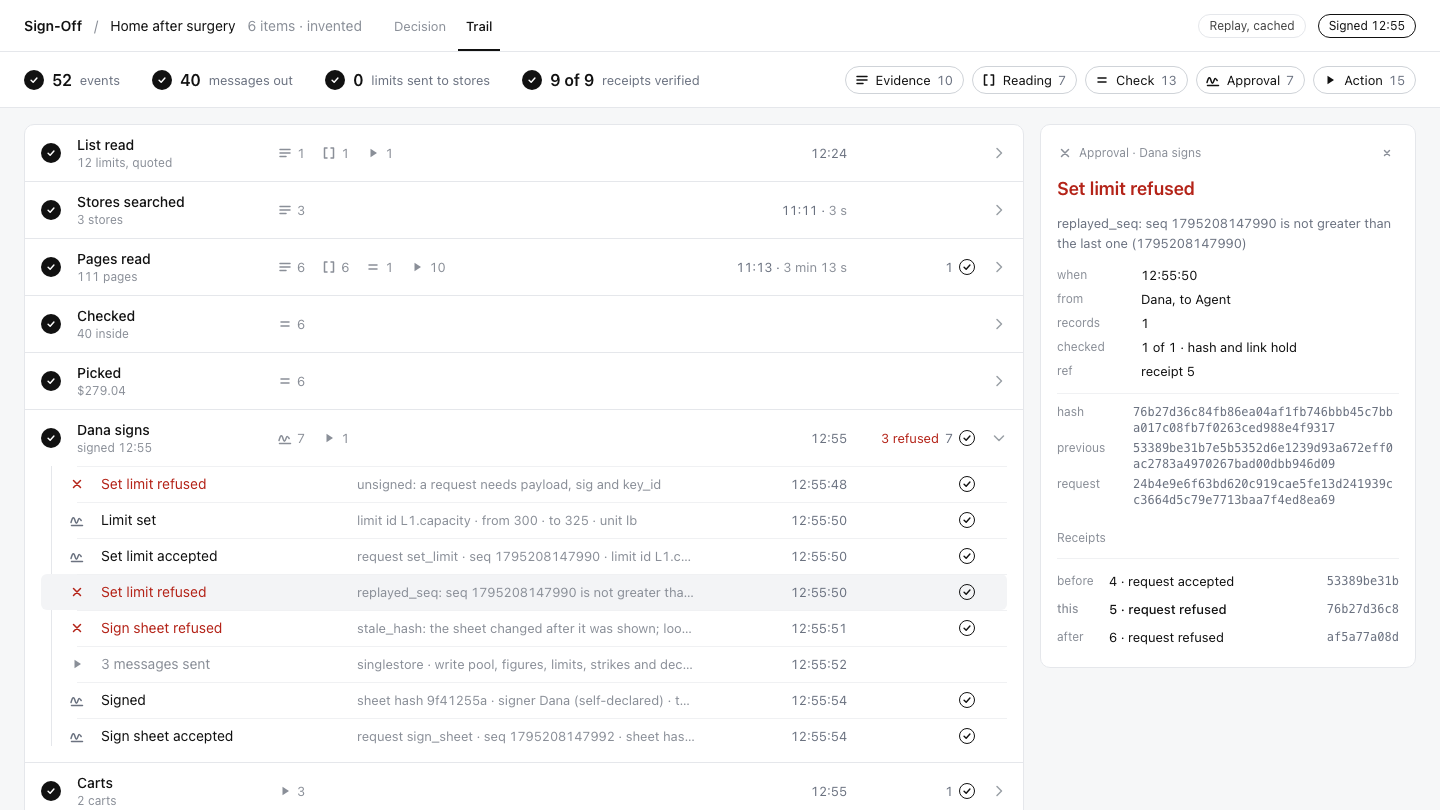
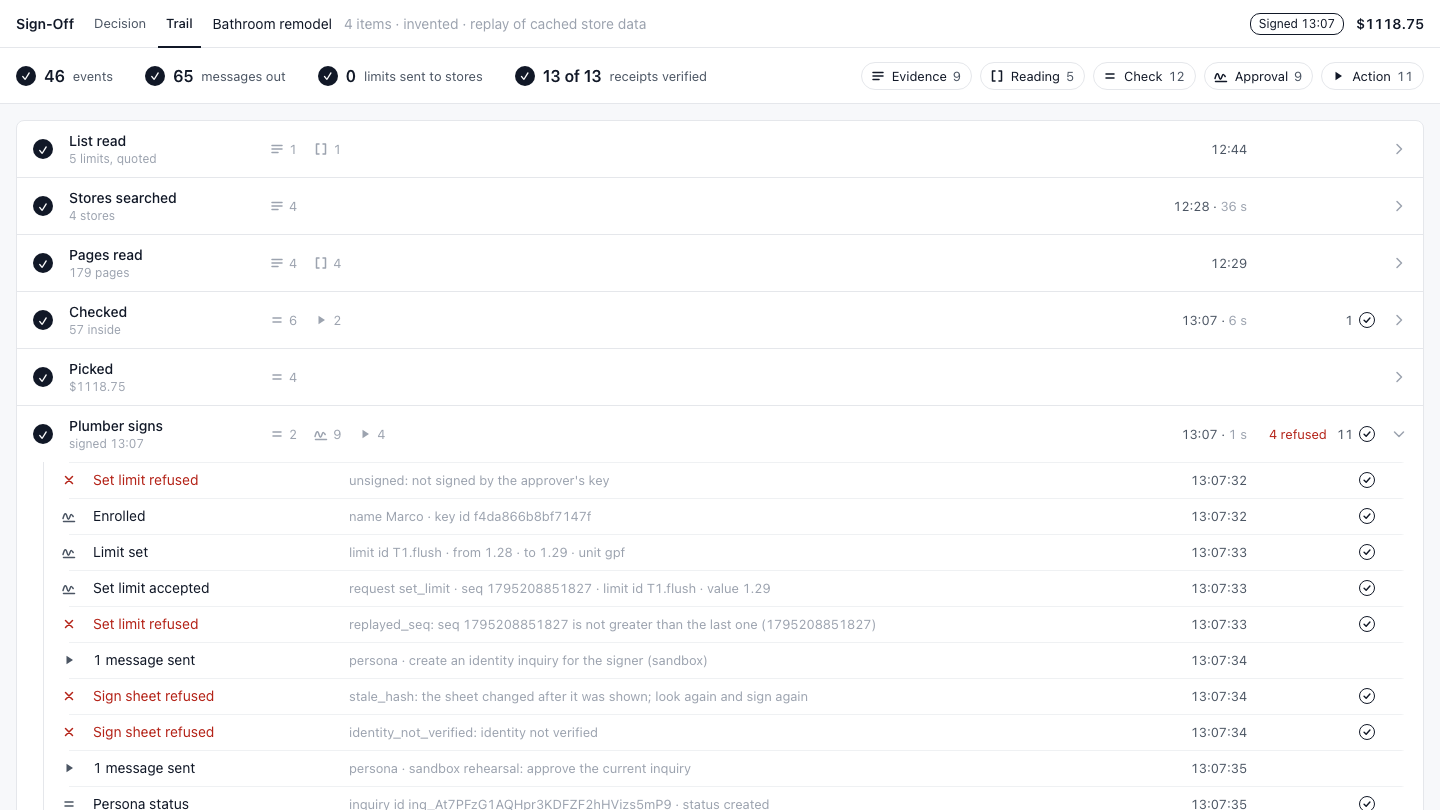
TRAIL: receipts placed by actor, tool calls in plain words, each record's read time in the side sheet; shots of a signed sheet-2 run; DONE T1-T3

diff --git a/web/trail/trail.js b/web/trail/trail.js
@@ -118,7 +118,8 @@ function marked(text, quote) {
 
 function itemHtml(it, e) {
   const src = it.link ? `<a href="${esc(it.link)}" target="_blank" rel="noopener">${esc(it.source || "source")}</a>` : esc(it.source || "");
-  const meta = [it.about ? esc(it.about) : "", src, esc(it.price || ""), it.by ? "read by " + esc(String(it.by).split(":").pop()) : "",
+  const read = it.at ? "read " + clock(it.at) : it.page_at ? "page read " + clock(it.page_at) : "";
+  const meta = [it.about ? esc(it.about) : "", src, esc(it.price || ""), read, it.by ? "by " + esc(String(it.by).split(":").pop()) : "",
     it.bytes != null ? `${it.bytes} bytes` : "", (it.facts || []).map((f) => esc(f.replace(/_/g, " "))).join(", ")].filter(Boolean).join(" · ");
   const status = it.status ? ` <span class="g">· ${esc(it.status)}</span>` : "";
   const title = it.title && it.title.toLowerCase() !== e.label.toLowerCase() ? `<div class="ti">${esc(it.title)}${status}</div>` : "";
@@ -142,7 +143,7 @@ function nearHtml(e) {
   } else return "";
   const row = (word, r, self) => (r ? `<${self ? 'div class="now"' : `button data-receipt="${r.n}"`}><span>${word}</span><span>${r.n} · ${esc(String(r.type).replace(/_/g, " "))}</span><code>${esc(short(r.hash))}</code></${self ? "div" : "button"}>` : "");
   const body = row("before", before) + row("this", now, true) + row("after", after);
-  return body ? `<div class="lab">Receipts</div><div class="near">${body}</div>` : "";
+  return body ? `<div class="cap">Receipts</div><div class="near">${body}</div>` : "";
 }
 
 function renderSheet() {

diff --git a/signoff/trail/feed.py b/signoff/trail/feed.py
@@ -43,11 +43,16 @@ RECEIPT_PLACE = {
     "carts_updated": ("agent", "stores", "action", "carts", "cart"),
     "reader_switched": ("agent", "reader", "action", None, "reader"),
 }
-# The agent's own tool calls, as logged with their measured time (signoff.obs.recent): name -> (step, kind).
-# A name not listed is an action in the step in progress.
-TOOL_PLACE = {"figure_read": ("pages_read", "reading"), "check_run": ("checked", "check"),
-              "search_catalog": ("stores_searched", "action"), "ask_business": ("pages_read", "action"),
-              "create_cart": ("carts", "action")}
+# The agent's own tool calls, as logged with their measured time (signoff.obs.recent), by the last part of the
+# name: (step, kind, one, many). A name not listed is an action in the step in progress, "<name> call".
+TOOL_PLACE = {"figure_read": ("pages_read", "reading", "page read", "pages read"),
+              "check_run": ("checked", "check", "check run", "check runs"),
+              "search_catalog": ("stores_searched", "action", "search", "searches"),
+              "ask_business": ("pages_read", "action", "question asked", "questions asked"),
+              "create_cart": ("carts", "action", "cart request", "cart requests")}
+# A receipt whose type is not in RECEIPT_PLACE is placed by who wrote it: (from, to, kind, step).
+ACTOR_PLACE = {"issuer": ("approver", "agent", "approval", "signs"), "shopper": ("shopper", "agent", "evidence", None),
+               "system": ("agent", "agent", "check", None)}
 # Steps whose results outlive a reset (cached evidence and its reading). The other steps are worked out again
 # for every run, so a record of theirs from before the current receipt chain began belongs to an earlier run.
 KEPT_ACROSS_RESETS = {"list_read", "stores_searched", "pages_read"}
@@ -182,7 +187,8 @@ def _atoms(src: dict) -> list:
             add(o.get("derived_at"), "list_read", "evidence", "order", "approver", "agent", "order sentence",
                 "order sentences", detail=o.get("title") or "", ref=f.get("doc"), source="order", facts=["order"],
                 group=("order_sentence",), verified=_yes(f.get("span_found_in_text")), proof="quoted in the order",
-                item={"title": line.get("need") or "", "quote": f.get("quote") or "", "source": f.get("doc")})
+                item={"title": line.get("need") or "", "quote": f.get("quote") or "", "source": f.get("doc"),
+                      "at": o.get("derived_at")})
             value = " ".join(x for x in (_span(None, None, f.get("value")), f.get("unit") or lim.get("unit") or "") if x) \
                 if f.get("value") is not None else "(%s)" % ((f.get("measurement") or {}).get("label") or "a measurement")
             add(o.get("derived_at"), "list_read", "reading", "limit", "reader", "agent", "limit read", "limits read",
@@ -232,20 +238,21 @@ def _atoms(src: dict) -> list:
         add(p["fetched_at"], "stores_searched", "evidence", "page", "stores", "agent", "page", "pages",
             detail=store or "", source="pool", facts=["store_text"], group=("page", store),
             item={"title": p.get("title") or "", "source": store, "link": p.get("url"),
-                  "price": _money(p.get("price_cents"))})
+                  "price": _money(p.get("price_cents")), "at": p.get("fetched_at")})
     for (store, _, _), (p, a) in answers.items():
         found = bool(a.get("answered")) and a.get("start") is not None
         add(a["asked_at"], "pages_read", "evidence", "answer", "stores", "agent", "answer", "answers",
             detail=store or "", source="asked", facts=["store_text"], group=("answer", store),
             verified=True if found else None, proof="stated, quote found",
             item={"title": a.get("question") or "", "quote": a.get("quote") or a.get("reply") or "",
-                  "about": p.get("title") or "", "source": store})
+                  "about": p.get("title") or "", "source": store, "at": a.get("asked_at")})
     for a in state.get("store_answers") or []:
         if a.get("asked_at"):
             add(a["asked_at"], "pages_read", "evidence", "answer", "stores", "agent", "answer", "answers",
                 detail=a.get("store") or "", source="store_answers", facts=["store_text"],
                 group=("answer", a.get("store")),
-                item={"title": a.get("question") or "", "quote": a.get("answer") or "", "source": a.get("store")})
+                item={"title": a.get("question") or "", "quote": a.get("answer") or "", "source": a.get("store"),
+                      "at": a.get("asked_at")})
     for (_, store, _, _), (need, p, f) in figures.items():
         found = _yes(f.get("span_found_in_text"))
         add(f.get("read_at"), "pages_read", "reading", "figure", "reader", "agent", "figure read", "figures read",
@@ -254,7 +261,8 @@ def _atoms(src: dict) -> list:
             item={"title": " ".join(x for x in (_plain(f.get("figure")) + ":", _span(f.get("low"), f.get("high"), f.get("value")),
                                                 f.get("unit") or "") if x),
                   "quote": f.get("quote") or "", "about": p.get("title") or "", "source": store, "link": p.get("url"),
-                  "by": f.get("extractor"), "status": "unsure" if f.get("unsure") else None})
+                  "by": f.get("extractor"), "status": "unsure" if f.get("unsure") else None,
+                  "at": f.get("read_at"), "page_at": p.get("fetched_at")})
 
     # everything that left the process
     for r in src.get("egress") or []:
@@ -277,8 +285,10 @@ def _atoms(src: dict) -> list:
     bad = (check or {}).get("first_bad")
     for r in chain:
         d = r.get("detail") if isinstance(r.get("detail"), dict) else {}
-        lane, to_lane, kind, step, mark = RECEIPT_PLACE.get(r.get("type"), ("agent", "agent", "check", None, "receipt"))
-        refused = r.get("type") == "request_refused"
+        actor = str(r.get("actor") or "")
+        by_actor = ("checks", "agent", "check", CHECKERS[actor]) if actor in CHECKERS else ACTOR_PLACE.get(actor, ACTOR_PLACE["system"])
+        lane, to_lane, kind, step, mark = RECEIPT_PLACE.get(r.get("type"), by_actor + ("receipt",))
+        refused = bool(d.get("refused_because")) or d.get("accepted") is False
         words = _plain(r.get("type"))
         if mark == "request":
             mark = REQUEST_MARK.get(d.get("request"), "request")
@@ -293,14 +303,15 @@ def _atoms(src: dict) -> list:
 
     # the agent's tool calls, each with the time it took
     for c in src.get("tools") or []:
-        step, kind = TOOL_PLACE.get(c.get("name"), (None, "action"))
-        ok, name = c.get("success") is not False, _plain(str(c.get("name") or "tool call").replace(".", " "))
-        ms = c.get("duration_ms")
+        name = str(c.get("name") or "tool").split(".")[-1]
+        words = _plain(name)
+        step, kind, one, many = TOOL_PLACE.get(name, (None, "action", words + " call", words + " calls"))
+        ok, ms = c.get("success") is not False, c.get("duration_ms")
         add(c.get("at"), step if _epoch(c.get("at")) is not None else None, kind, "tool", "agent", "agent",
-            name if ok else name + " failed", (name + "s") if ok else name + " failed", source="tools",
+            one if ok else one + " failed", many if ok else many + " failed", source="tools",
             detail="measured" if ok else str(c.get("error") or "failed"), stopped=not ok, group=("tool", c.get("name"), ok),
             duration_ms=int(round(ms)) if isinstance(ms, (int, float)) and not isinstance(ms, bool) else None,
-            item={"title": name, "status": None if ok else "failed", "quote": str(c.get("error") or ""),
+            item={"title": _plain(c.get("name")), "status": None if ok else "failed", "quote": str(c.get("error") or ""),
                   "at": c.get("at"), "ms": ms})
 
     # the reader gate's changes
@@ -320,13 +331,7 @@ def _atoms(src: dict) -> list:
             items=[{"title": c.get("sentence") or "", "quote": c.get("quote") or "", "status": c.get("verdict"),
                     "source": "Senso", "run": c.get("run_id")} for c in checks])
 
-    # the signer's checks: who (Persona Inquiry) and that a person tapped (Relay)
-    p = src.get("persona") or {}
-    if p.get("inquiry_id"):
-        at = next((p[k] for k in ("checked_at", "completed_at", "at", "created_at") if p.get(k)), None)
-        add(at, "signs", "check", "identity", "checks", "agent", "Identity check", "", detail=p.get("label") or "",
-            ref=p.get("inquiry_id"), source="persona", verified=_yes(p.get("verified")), proof="identity checked",
-            item={"title": p.get("label") or "", "status": p.get("status"), "source": "Persona"})
+    # that a person, not the agent, tapped Sign (Relay). Persona's inquiry results are receipts in the chain.
     rl = src.get("relay") or {}
     if rl.get("claim_type"):
         add(rl.get("at"), "signs", "check", "identity", "checks", "agent",
@@ -368,8 +373,8 @@ def _events(atoms: list, run_started=None) -> tuple:
             a["step"] = current
         else:
             current = a["step"]
-    # the run began with the receipt chain; a record within GAP_S before it is part of the same burst
-    kept = [a for a in timed if run_started is None or a["t"] >= run_started - GAP_S or a["step"] in KEPT_ACROSS_RESETS]
+    # the run began with the receipt chain: exactly then, so a reset straight after a signed rehearsal shows none of it
+    kept = [a for a in timed if run_started is None or a["t"] >= run_started or a["step"] in KEPT_ACROSS_RESETS]
     earlier = len(timed) - len(kept)
     open_groups, events = {}, []
     untimed = sorted((a for a in atoms if a["t"] is None), key=lambda a: STEP_IDS.index(a["step"]))   # by step; stable
@@ -541,10 +546,6 @@ def collect() -> dict:
         from signoff.sign import senso
         return senso.checks()
 
-    def _persona():
-        from signoff.sign import persona
-        return persona.record()
-
     def _relay():
         from signoff.relay import core
         return core.status()
@@ -554,7 +555,7 @@ def collect() -> dict:
         return api.status()
 
     for name, fn in (("state", _state), ("receipts", _receipts), ("egress", _egress), ("tools", _tools), ("gate", _gate),
-                     ("senso", _senso), ("persona", _persona), ("relay", _relay), ("airbyte", _airbyte)):
+                     ("senso", _senso), ("relay", _relay), ("airbyte", _airbyte)):
         src[name] = read(name, fn)
     src["sources"] = sources
     return src

diff --git a/NOTES/INTEGRATOR.md b/NOTES/INTEGRATOR.md
@@ -1018,3 +1018,22 @@ app_pool_rows, note}. Today on sheet 1: L1 8 against 8, L2 7 against 7, L4 13 ag
 Port 8006 is now held by a server started from the AIRBYTE worktree (pid 38120, 13:01:54). I did not touch it; TRAIL
 develops on **8016** from here on. `data/obs/events.jsonl` (written by `signoff.obs` when a server runs in a worktree) is
 untracked and not ignored; I left it in place and did not commit it (STORE's path): it probably wants a `.gitignore` line.
+
+## 13:09 from TRAIL
+DONE T1 (again, after the form change): every event carries `step` (seven) and `kind` (five). `uv run -q pytest -q tests/trail`
+→ 10 passed. Sources read in-process, each guarded: state, receipts, outbound ledger, tool-call log (S10), gate history,
+Senso, Relay, Airbyte. Records of an earlier run stay out of the steps a reset redoes.
+DONE T2: `/trail/` on port 8016, sheet 2, `SIGNOFF_MODE=replay`, one run from reset to a signed sheet (driven with a real
+P-256 key: unsigned request refused, enrolment, limit 1.28 → 1.29 gpf, replayed seq refused, stale hash refused, signature
+refused until the Persona sandbox inquiry is approved, then signed, three replay carts): 48 events, 0 limits sent to
+stores, 14 of 14 receipts verified; seven step rows, events one line each with kind mark, words, time and receipt tick;
+five kind chips filter; click opens the side sheet (quote, source link, time read, hash, receipt before and after).
+Looked-at screenshots: web/trail/shots/trail.png, trail-signed.png, trail-reading.png, trail-evidence.png,
+trail-refused.png, trail-150.png (960 x 540, the 150% zoom view).
+DONE T3: the page links SCREEN's `/screen/style.css` (tokens, rem scale, top bar, cards, pills); trail.css holds layout
+only. No dots, no arrows; red only on refusals.
+Not done, written down so it is not lost: (a) figures, comparisons and picks have no time of their own, so those lines
+show none (asked ENGINE for `read_at` and a `pick` receipt in NOTES/ENGINE.md); (b) live arrival (a new event sliding in
+under its step) is built but I have only seen the final state in headless screenshots, not the motion in a real browser;
+(c) the signs-and-carts run above used replay carts and one Persona sandbox inquiry per run (three inquiries created
+from my port while testing).

diff --git a/NOTES/SCREEN.md b/NOTES/SCREEN.md
@@ -48,3 +48,20 @@ version, so the trail page also polls every 5 s).
 - [ ] Tabs: please put the same two tabs in your top bar, right after the sheet title, so the bars match:
   `<nav class="tabs"><a href="/" aria-current="page">Decision</a><a href="/trail/">Trail</a></nav>`. Mine is styled in
   `web/trail/trail.css` (`.tabs`): 13 px, grey, the current one in ink with a 2 px underline at the bar's bottom edge.
+
+## 13:09 from TRAIL — `/api/trail`: what changed since the 12:52 note (additions only; nothing renamed)
+- Page now links your `/screen/style.css` and uses your top bar markup (`.brand`, `.tabs`, `.sheet`, `.meta`, `.grow`,
+  `.pill`, `.total`); thank you for NOTES/TRAIL.md. The tabs request above is done on your side already.
+- `sheet.total_cents` added. `steps[5].label` is now "<Issuer role> signs" ("Plumber signs"), the same words as your
+  stepper; `steps[i].sub`: "5 limits, quoted", "4 stores", "179 pages", "57 inside", "$1118.75", "signed 13:07" or
+  "not signed", "3 carts" or "none exist".
+- Step ids stay `list_read`, `stores_searched`, `pages_read`, `checked`, `picked`, `signs`, `carts` (yours are `list`,
+  `search`, `read`, `check`, `pick`, `sign`, `carts`): map by position, `feed.steps[i]` is your step `i`.
+- New per event: `proof` (the words for `verified_count`: "quotes found in the text", "match the sheet", "hash and link
+  hold"), `timed` ("measured" when the duration was measured by the tool-call log, "first to last" when it is the
+  time between the first and last record, null when there is none). New per item: `at` (when that record was read).
+- New sources: the tool-call log (`signoff.obs.recent`) gives measured times ("16 check runs · 50 ms", "3 cart requests");
+  receipts written by SIGN (enrolled, persona status, senso checked) are placed by their actor.
+- `summary.earlier_runs`: records of an earlier run (before the current receipt chain began) that are left out of the
+  steps a reset redoes (checked, picked, signs, carts). Cached evidence and its reading are kept.
+- Deep links: `/trail/#signs` opens a step; `/trail/?event=<n>#<step>` also opens that event's side sheet.
